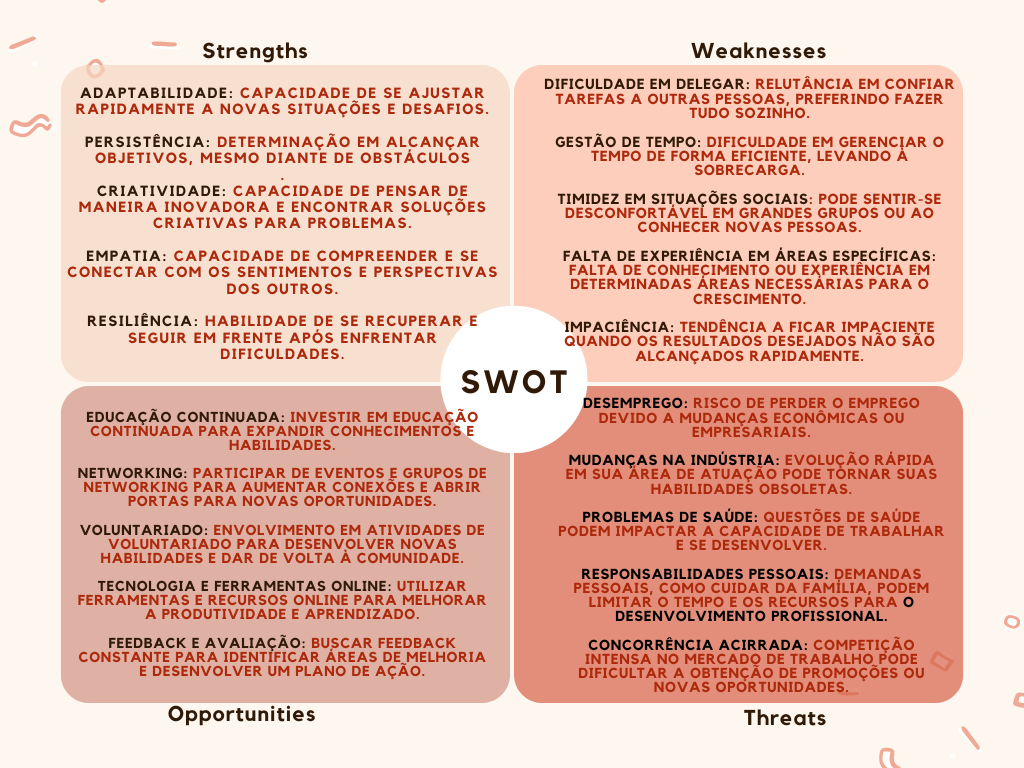
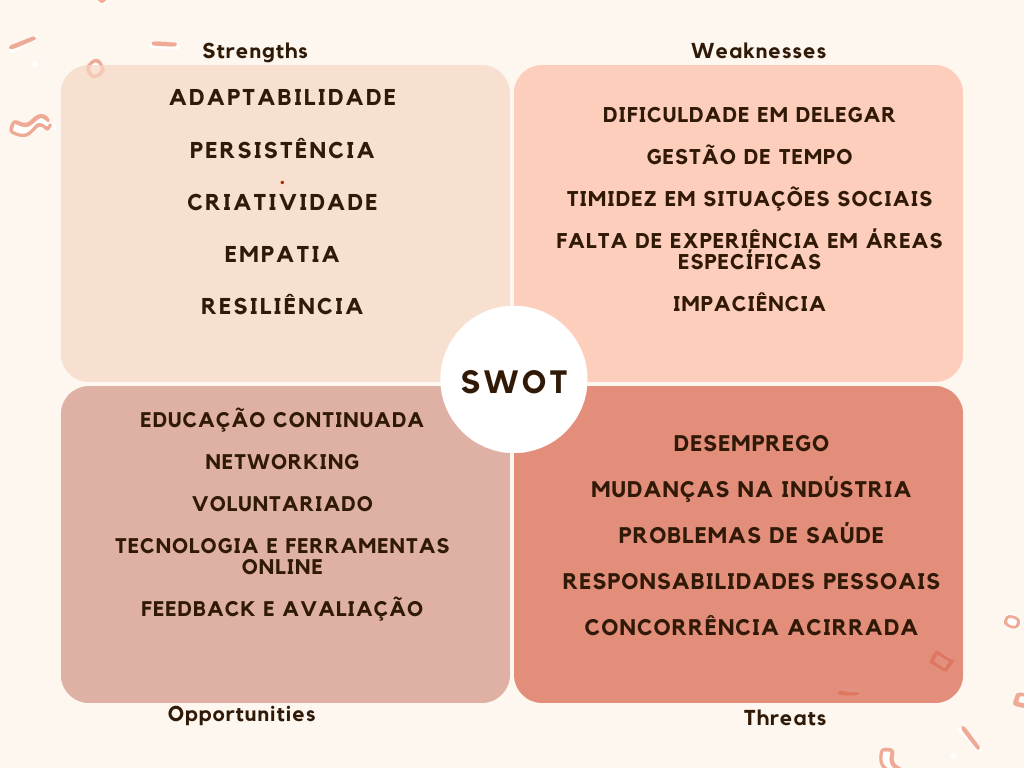
TASK-TAMIRES-O3 + add and moifiction PDI and Swot

diff --git a/TASK-TAMIRES-03/PDI.md b/TASK-TAMIRES-03/PDI.md
@@ -1,0 +1,75 @@
+# 1. Objetivo de Carreira
+Definir o objetivo de carreira da desenvolvedora Full Stack:
+
+Curto Prazo (6-12 meses): Tornar-se proficiente em JavaScript e frameworks como React e Node.js.
+Médio Prazo (1-2 anos): Obter uma posição sênior ou de liderança técnica, com especialização em desenvolvimento de aplicações web escaláveis.
+Longo Prazo (2-3 anos): Tornar-se uma arquiteta de software ou líder de equipe, contribuindo para projetos de grande escala e mentorando outros desenvolvedores.
+
+# 2. Competências Atuais
+Identificar as competências atuais da desenvolvedora em relação a:
+
+JavaScript: Nível básico/intermediário/avançado
+React: Nível básico/intermediário/avançado
+Node.js: Nível básico/intermediário/avançado
+Banco de Dados (SQL/NoSQL): Nível básico
+Git e Versionamento: Nível básico/intermediário/avançado
+Outros (como ferramentas de CI/CD, práticas ágeis, etc.): Nível básico/intermediário/avançado
+
+# 3. Áreas de Desenvolvimento
+Identificar áreas específicas para desenvolvimento:
+
+JavaScript:
+Estudar conceitos avançados (ex. assincronismo, ES6+).
+Trabalhar em projetos open-source para ganhar experiência prática.
+React:
+Fazer cursos online (ex. Coursera, Udemy, Pluralsight).
+Implementar projetos reais para aplicar os conhecimentos.
+Node.js:
+Participar de workshops ou bootcamps focados em backend.
+Realizar projetos que utilizem Node.js para criar APIs robustas.
+Banco de Dados (SQL/NoSQL):
+Estudar modelagem de dados e otimização de consultas.
+Trabalhar com bancos de dados diferentes em projetos pessoais.
+Git e Versionamento:
+Contribuir para repositórios no GitHub.
+Participar de hackathons ou projetos colaborativos.
+Soft Skills:
+Desenvolvimento de liderança e habilidades de comunicação.
+Participar de grupos de tecnologia para networking e suporte.
+
+# 4. Recursos de Aprendizagem
+Listar recursos para desenvolvimento:
+
+Livros:
+"JavaScript: The Good Parts" por Douglas Crockford
+"Learning React" por Alex Banks e Eve Porcello
+"Node.js Design Patterns" por Mario Casciaro e Luciano Mammino
+Cursos Online:
+"JavaScript: Understanding the Weird Parts" (Udemy)
+"React - The Complete Guide" (Udemy)
+"The Complete Node.js Developer Course" (Udemy)
+Comunidades e Fóruns:
+Stack Overflow
+GitHub
+Comunidades de Desenvolvedores (ex. Women Who Code)
+
+# 5. Plano de Ação
+Definir ações concretas e prazos para atingir os objetivos:
+
+JavaScript:
+[Completar o curso "JavaScript: Understanding the Weird Parts" em 3 meses.]
+[Desenvolver um projeto de frontend utilizando JavaScript moderno em 6 meses.]
+React:
+[Completar o curso "React - The Complete Guide" em 4 meses.]
+[Implementar um projeto de SPA (Single Page Application) com React em 5 meses.]
+Node.js:
+[Participar de um workshop de Node.js em 6 meses.]
+[Implementar uma API RESTful com Node.js e Express em 4 meses.]
+Banco de Dados (SQL/NoSQL):
+[Completar um curso de modelagem de dados em 4 meses.]
+[Implementar um projeto utilizando MongoDB e PostgreSQL em 6 meses.]
+Git e Versionamento:
+[Contribuir para 3 projetos open-source no GitHub em 6 meses.]
+Soft Skills:
+[Participar de 3 eventos de networking para desenvolvedores em 1 ano.]
+[Completar um curso de desenvolvimento de liderança em 6 meses.]
